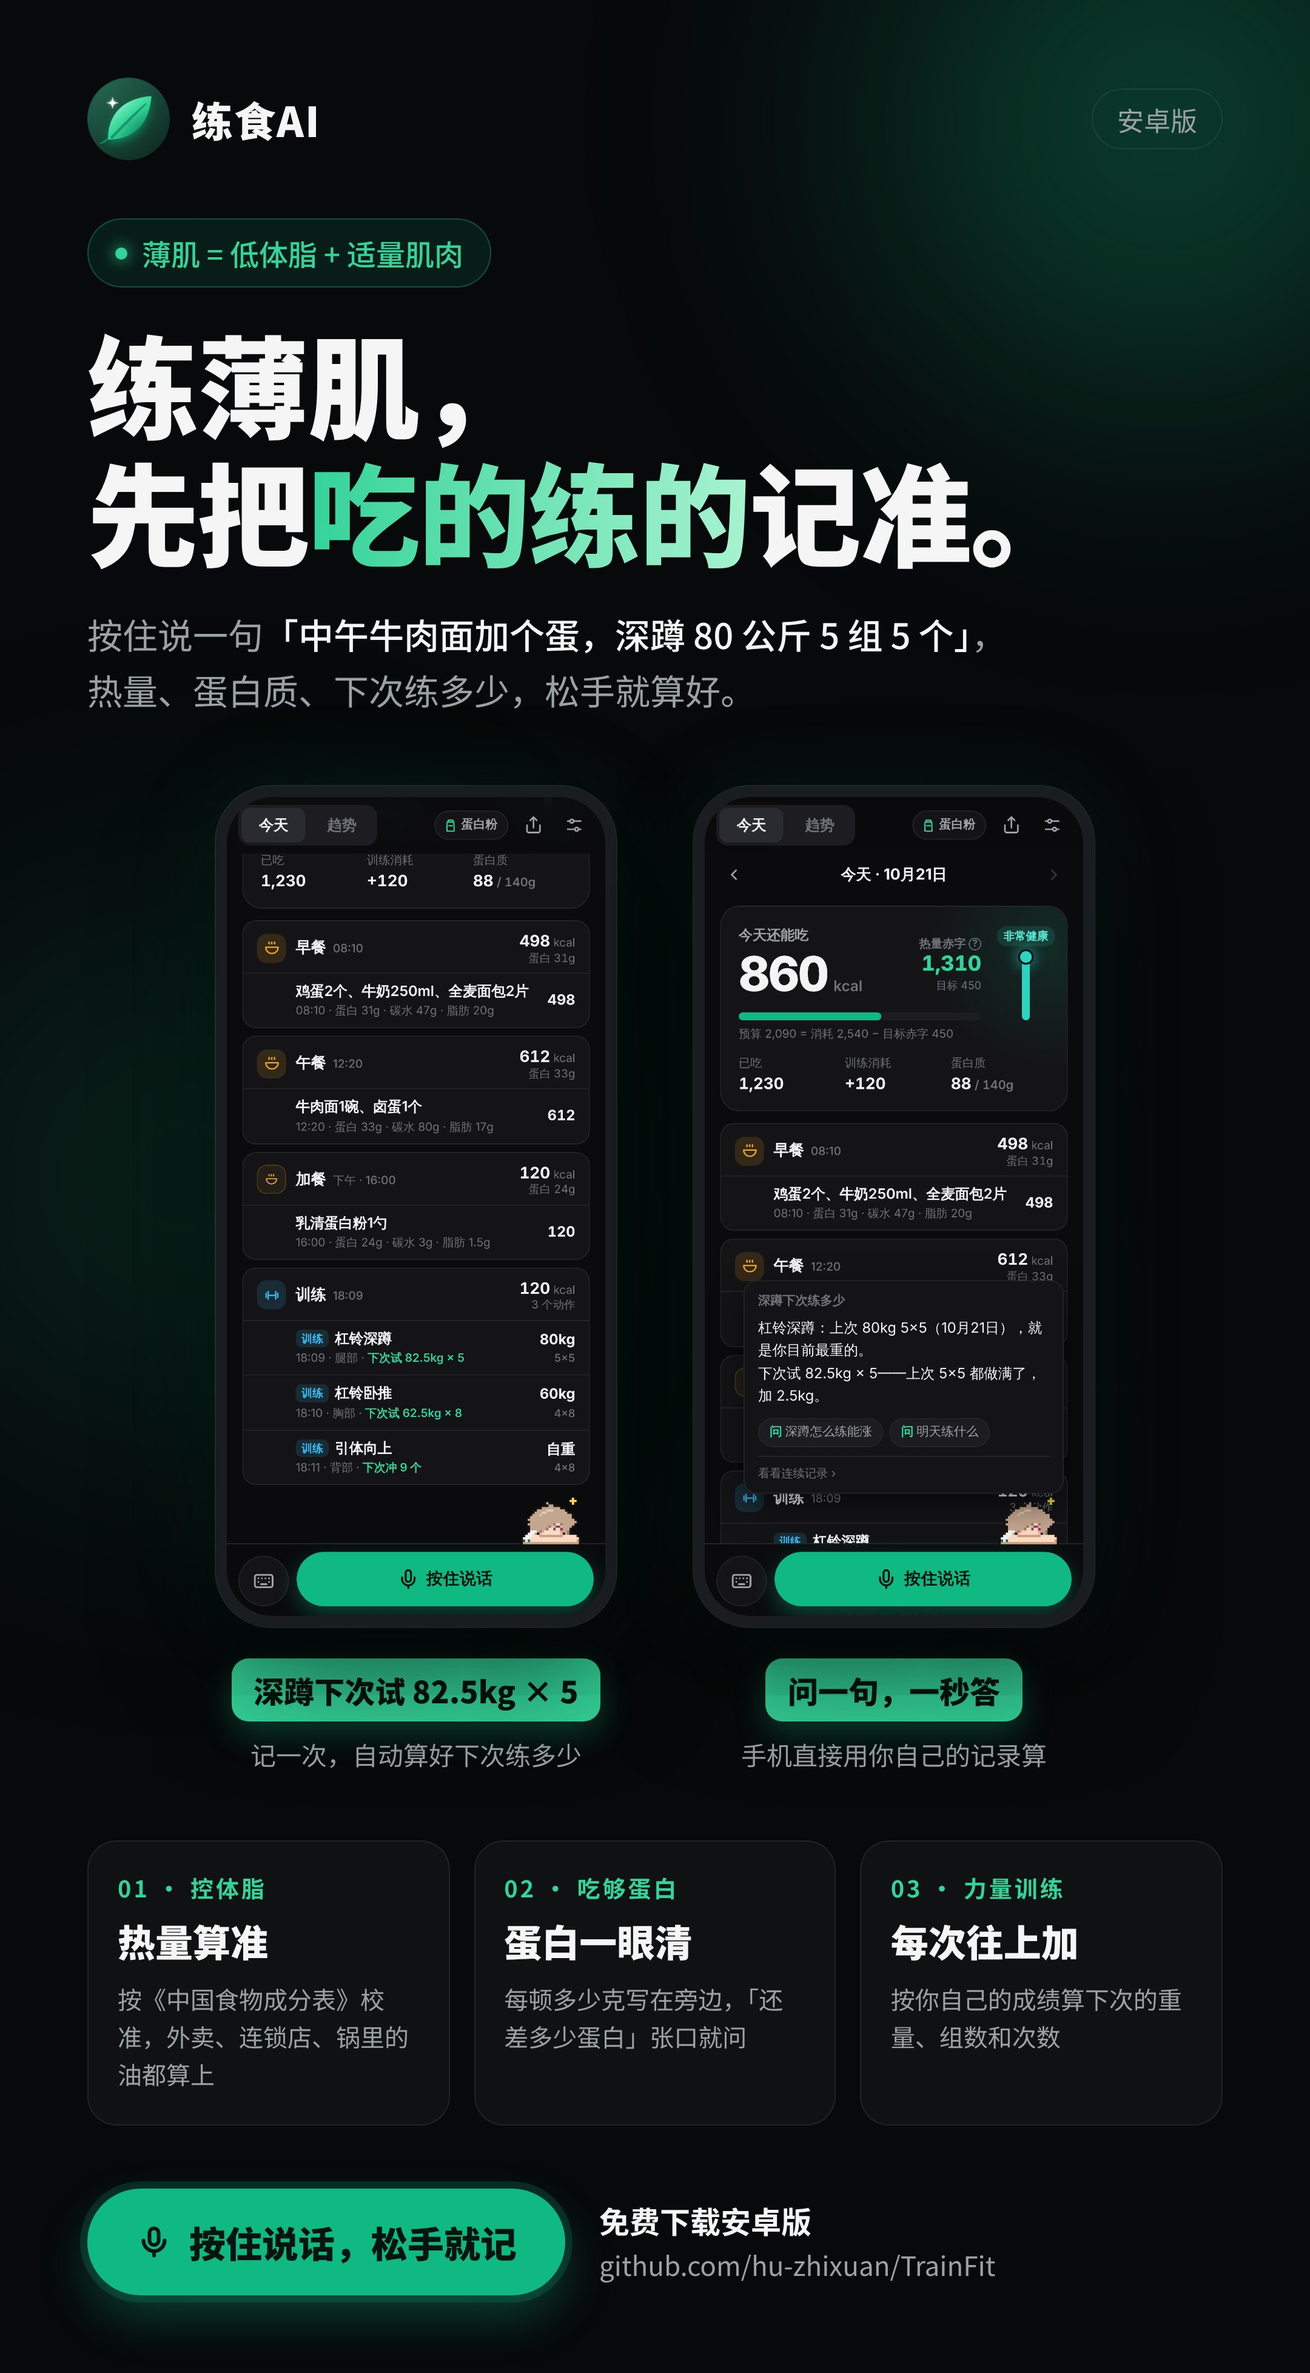
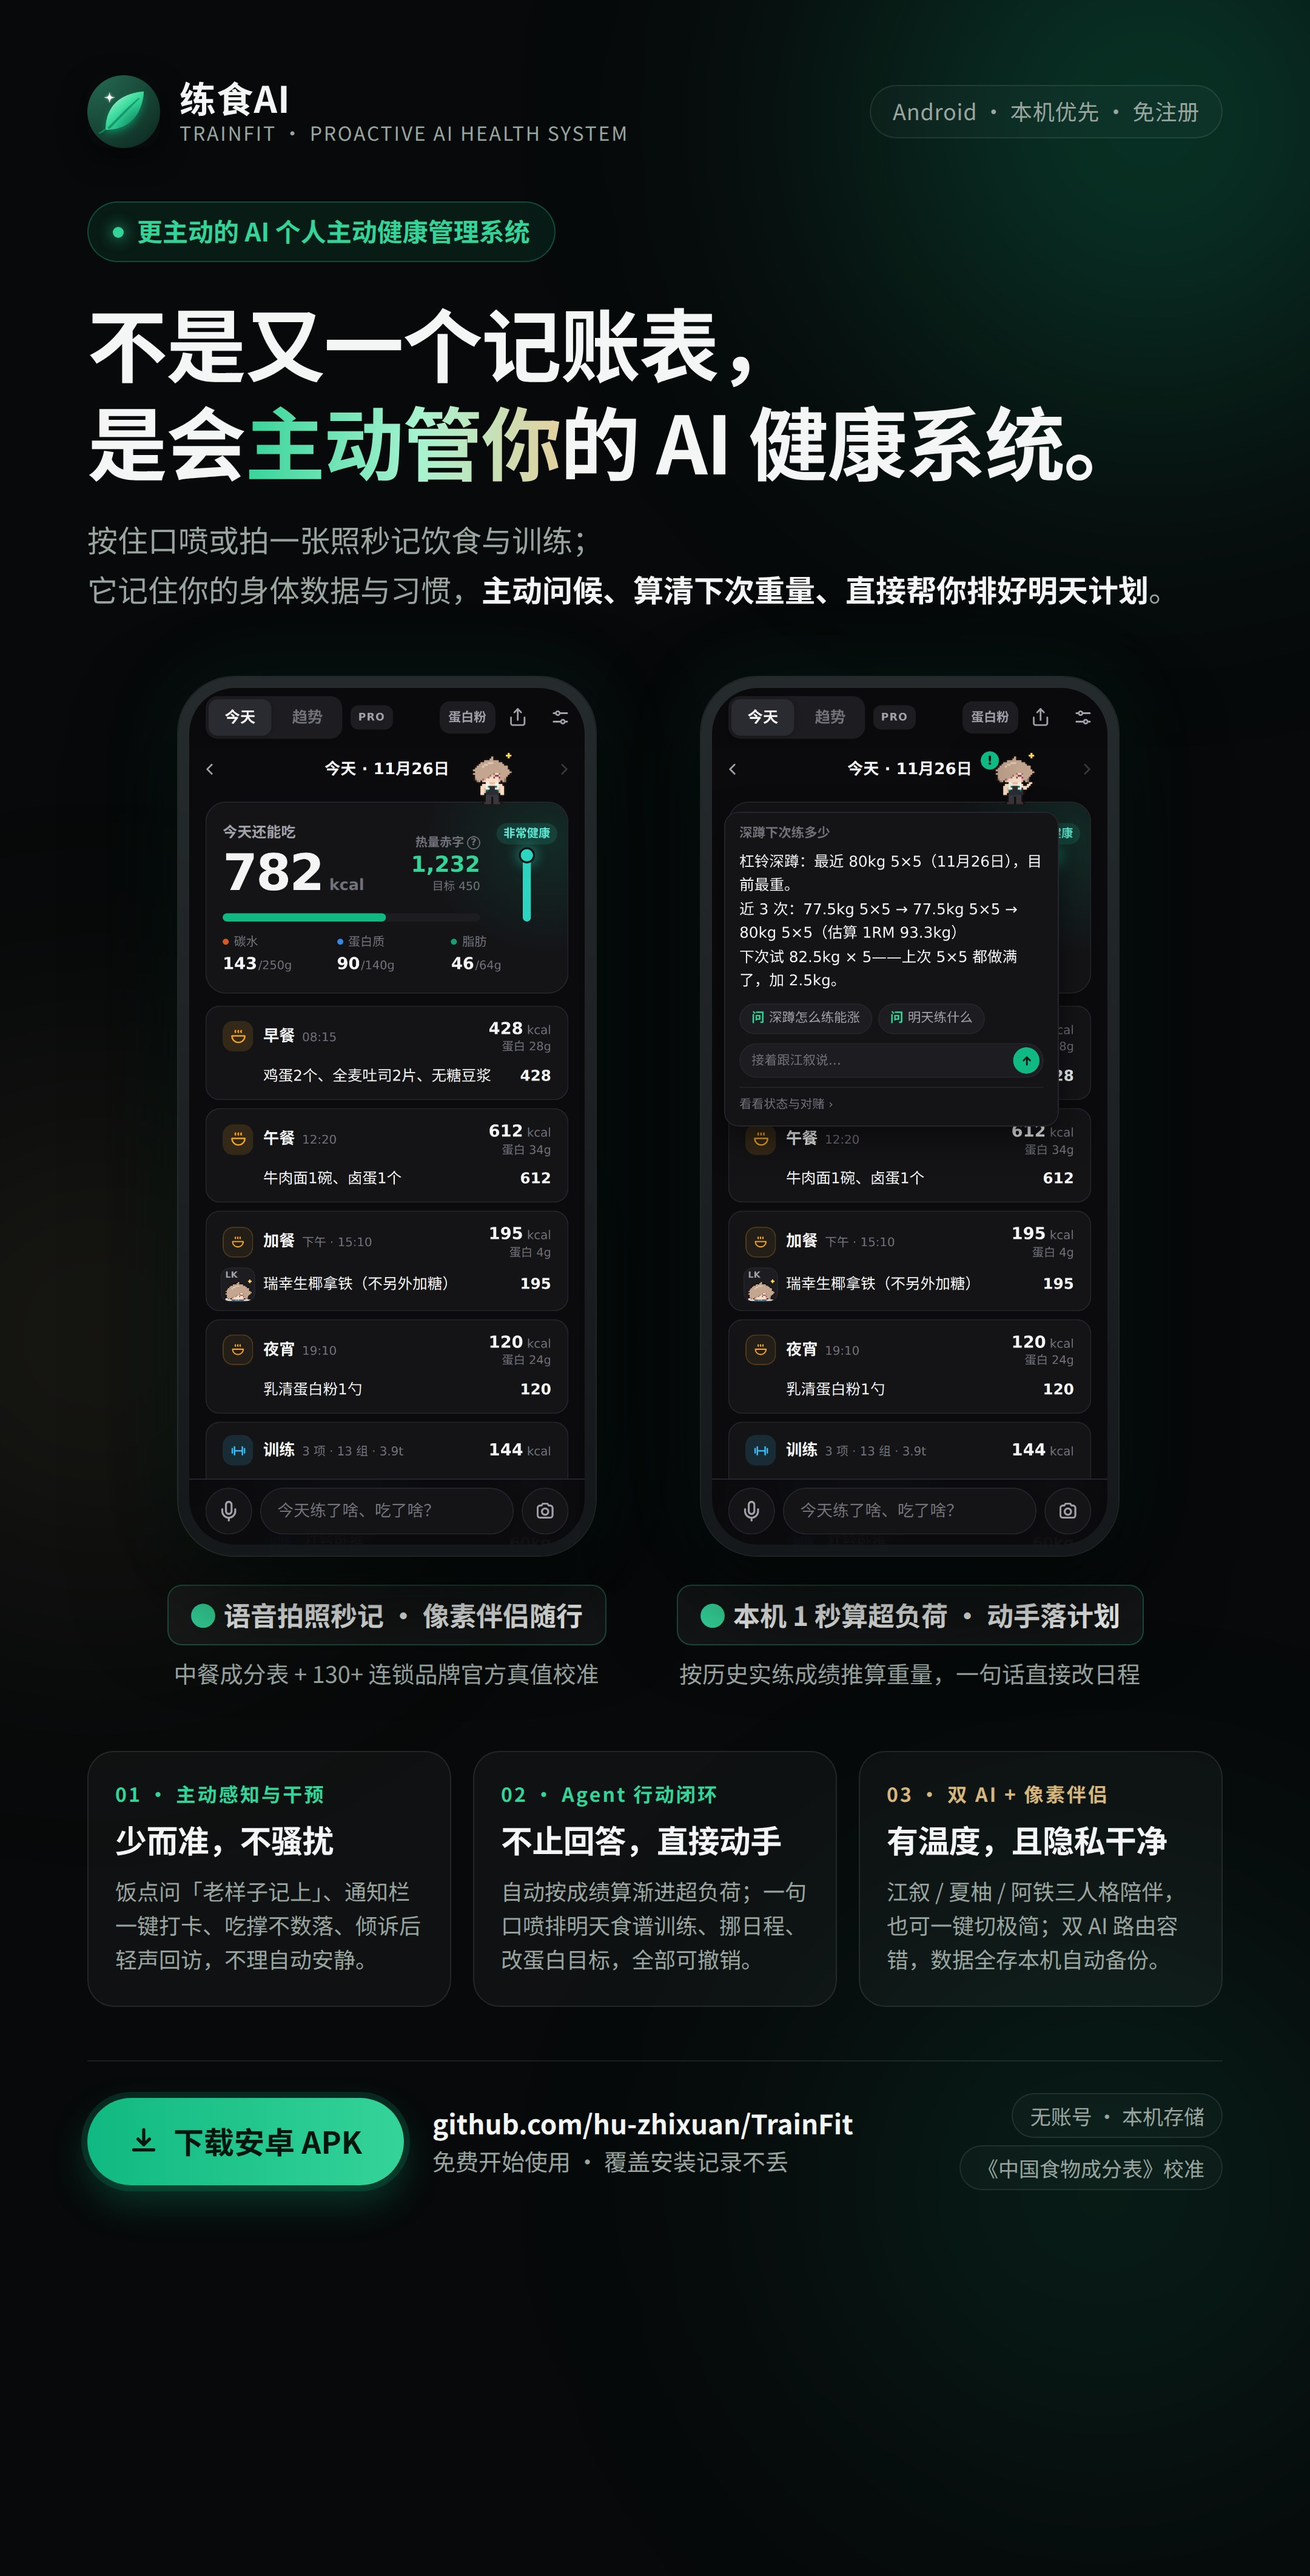
更新介绍页

diff --git a/README.md b/README.md
@@ -1,49 +1,139 @@
-# 练食AI
+<div align="center">
 
-<p align="center"><img src="promo.jpg" alt="练食AI：练薄肌，先把吃的练的记准" width="540"></p>
+# 练食AI · TrainFit
 
-<p align="center">
-  <b>记饮食、记训练，不用填表。按住说一句就记好了。</b><br>
-  「中午一碗牛肉面加个蛋」「卧推 60 公斤 4 组 8 个」「体重 62.5」——松手就记上，热量、蛋白质自动算好。
+**更主动的 AI 个人主动健康管理系统**  
+*不是又一个要你搜表填克数的热量记账本，是一套会主动找你、会动手排计划的个人健康 Agent。*
+
+<p>
+  <a href="https://github.com/hu-zhixuan/TrainFit/releases/latest">
+    <img src="https://img.shields.io/github/v/release/hu-zhixuan/TrainFit?label=Latest%20APK&color=10b981&style=flat-square" alt="Latest Release">
+  </a>
+  <img src="https://img.shields.io/badge/Platform-Android-181c1e?style=flat-square&logo=android&logoColor=34d399" alt="Android">
+  <img src="https://img.shields.io/badge/Architecture-Proactive%20AI%20Agent-181c1e?style=flat-square&labelColor=0f1416&color=10b981" alt="Proactive AI Agent">
+  <img src="https://img.shields.io/badge/Privacy-Local--First%20%C2%B7%20%E5%85%8D%E6%B3%A8%E5%86%8C-181c1e?style=flat-square&color=d6b67c" alt="Local First">
 </p>
 
-### 📥 [下载最新安卓安装包](https://github.com/hu-zhixuan/TrainFit/releases/latest)
+<p>
+  <a href="https://github.com/hu-zhixuan/TrainFit/releases/latest"><b>📥 下载最新安卓 APK</b></a>
+  &nbsp;·&nbsp;
+  <a href="#-实机界面一览"><b>📱 实机界面</b></a>
+  &nbsp;·&nbsp;
+  <a href="#-为什么做主动健康管理系统"><b>🧠 系统架构</b></a>
+  &nbsp;·&nbsp;
+  <a href="https://github.com/hu-zhixuan/TrainFit/issues/new/choose"><b>💬 提建议 / 报 Bug</b></a>
+</p>
 
-打开后点 **Assets** 里的 `TrainFit-v版本号.apk` 下载安装。以后有新版本，直接覆盖安装，记录都在。
+<br>
 
----
+<img src="promo.jpg" alt="练食AI：更主动的 AI 个人主动健康管理系统" width="620">
 
-## 为什么做它
-
-记热量的 App 大多要一样样搜、一样样选克数，记三天就不想记了；记训练的又是另一个 App，两边的数对不上。
-练食AI 只有一个按钮：**吃了什么、练了什么、想问什么，都按住说。**
-
-## 能做什么
-
-- **口喷就行**：一口气说完早中晚吃的、练的、体重，自动分成几条记好。说错了再说一句「改成两碗」「删掉奶茶」。
-- **热量算得准**：米饭、鸡蛋、牛肉这类按《中国食物成分表》算；番茄炒蛋、麻辣香锅、饺子这些常见中餐按菜谱和实测数据算，连锅里的油都算上；连锁店按官方一份估。说得含糊（「一碗」「一份」）会问一句多大份，点一下就改好。
-- **训练按你的成绩来**：记过的动作，告诉你下次该加重量还是加次数、加多少；问「明天练什么」，按你最近的成绩排好重量组数，点一下放进明天的计划，练完打勾就记上。自己的训练计划（计划A、计划B）粘过来也能一键存好。
-- **问什么都行**：「还差多少蛋白」「还能吃多少」这种马上算出来；「明天吃什么」「膝盖疼怎么练」「尿酸高能吃什么」也能问，它看着你自己的记录回答。
-- **有个陪你记的小人**：江叙或夏柚趴在按钮上，记完回你一句，饭点问一声，好几天没记也不数落。想要更多可以开剧情模式（每天一段故事，像玩 Galgame），不想要就选极简模式。
-- **蛋白粉怎么挑**：乳清蛋白按「每克蛋白多少钱」排，还能看大家的打分。
-- **趋势一眼看清**：每天吃了多少、蛋白够不够、热量赤字、练了哪儿、体重走势。
-
-## 你的数据
-
-- 记录只存在你的手机上，没有账号、不用注册。
-- 每天自动备份到手机「下载/练食AI/」，卸载重装、换手机都能恢复。
-- 整理记录、回答问题时，你说的那句话会发给 AI 接口处理；语音识别先在手机本机做，联网时也会用云端识别，更准。
-
-## 怎么装
-
-1. 用手机浏览器打开上面的下载链接，下载 `TrainFit-v版本号.apk`。
-2. 点开安装。第一次装会提示「允许安装未知来源应用」，按提示允许就行。
-3. 打开后按引导填身高体重，就能开始说了。
-
-目前只有安卓版。
+</div>
 
 ---
 
-每个版本更新了什么：[Releases](https://github.com/hu-zhixuan/TrainFit/releases)
+## 📥 立即下载（仅 Android）
 
-© 2026 练食AI，保留所有权利。
+- **GitHub Releases（推荐，始终最新）**：前往 [**Releases Latest**](https://github.com/hu-zhixuan/TrainFit/releases/latest)，点开下方 **Assets** 下载 `TrainFit-v版本号.apk`。
+- **国内备用直链（蓝奏云）**：[下载 `v16.18` 安卓安装包](https://wwbfi.lanzn.com/isV4O4h9rk7a)（提取码：`3are`）。
+- **覆盖更新**：以后出新版本直接覆盖安装，本地历史记录、习惯记忆与训练计划全部保留。
+
+---
+
+## 🧠 为什么做「主动健康管理系统」
+
+传统健身和热量 App 大多是**被动表单**：每顿饭搜食材、挑克数，训练和饮食拆成两个软件，记三天嫌烦就弃了。  
+**练食AI** 不只是套壳大模型聊天，而是包在大模型外层的一套 **Personal Health Agent Harness（个人主动健康管理层）**——把**极低摩擦记录、营养与训练校准、长期个人记忆、低打扰主动干预与直接行动执行**串成一个闭环。
+
+| 维度 | 传统被动记录 App | 练食AI（主动健康管理系统） |
+|---|---|---|
+| **记录方式** | 逐项搜索食材、手动选克数和训练动作 | **单入口按住口喷语音 / 拍一张照**，一句话同时记早中晚、训练与体重 |
+| **系统主动性** | 你不打开它，它什么都不做；断更就弹焦虑红字 | **少而准的主动找你**：餐点问「老样子记上」、通知一键记、情绪与近况轻声回访，不理自动安静 |
+| **给建议 vs 动手做** | 泛泛而谈的科普文章或模板计划 | **读取你自己的真实记录直接动手**：算下次渐进超负荷重量、一键排明天食谱训练、口喷改日程且可撤销 |
+| **情绪体验** | 冰冷红字报超标，越记越有负罪感 | **吃多不数落、不用红字愧疚感**；三位独立人格像素小人陪伴，也可一键切极简零打扰 |
+| **数据与隐私** | 强制注册账号、全量上传云端 | **Local-First 本机存储**，免注册、无账号，每日自动备份到手机下载目录 |
+
+### 系统工作流（Agent Harness）
+
+```mermaid
+flowchart LR
+    IN["极低摩擦输入<br/>按住口喷 / 拍照识图 / 通知栏一键"] --> ROUTE{"本机优先路由"}
+    ROUTE -->|"查数 / 改日程 / 常用技能"| LOCAL["本机 0 延迟引擎<br/>成分表与品牌真值库 + 超负荷算法"]
+    ROUTE -->|"复杂拆解 / 规划 / 问答"| LLM["双 AI 模型容错路由<br/>免费主力 + 官方大模型兜底"]
+    LOCAL --> MEM["个人健康记忆层<br/>身体数据 · 饮食习惯 · 训练 SSOT · 近况"]
+    LLM --> MEM
+    MEM --> ACT["主动健康干预 & 行动闭环<br/>餐点问候 · 情绪回访 · 一键落计划 · 趋势真话"]
+    ACT --> BUDDY["三人格像素伴侣<br/>江叙 / 夏柚 / 阿铁（可切极简）"]
+```
+
+---
+
+## ✨ 核心能力
+
+### 1. 会主动找你的健康管家（少而准，绝不骚扰）
+- **节点主动接话**：早上提醒称体重，午晚饭点空着会用你常吃的饭问一句「还是老样子？」，通知栏点一下直接记上，不用进 App 翻界面。
+- **记得你发生过的事**：记完大餐或破纪录实时接话（吃多不数落，只说明天怎么温和拉回）；聊到加班、考试、情绪低落时，隔几小时会按角色口吻轻声回访一次。
+- **严格防打扰边界**：每天主动打招呼有硬上限，连着两条没理白天就不再追，几天没来自动保持安静；不想要陪伴也能随时切**极简模式**或隐藏小人。
+
+### 2. 不止回答问题，能直接替你动手（Agentic Loop）
+- **渐进超负荷自动算**：所有同动作别名自动归并，记录同步回写计划库；问「深蹲下次练多少」手机 1 秒直接按你的历史实练给出下次重量与次数（区分正式组与热身/极限单次）。
+- **一句话直接改日程与目标**：问「明天吃什么」「明天练什么」生成按你预算配平的食谱与带重量的训练表，点一下落地进日程；直接口喷「把明天的计划挪到后天」「蛋白目标改成 140g」「今天练计划 A」秒执行且支持撤销。
+- **本机快答 + 健康大脑**：常规查数（「还差多少蛋白」「还能吃多少」「卧推最好多少」）0 延迟本机直出；营养、恢复、伤病与饮食搭配问题自动结合你近两周的真实记录作答。
+
+### 3. 语音 + 拍照极低摩擦输入，中餐和连锁店算得准
+- **双段语音识别 + 拍照秒记**：说话时手机本机 SenseVoice 边说边出字，联网同步走云端实时精校；懒得开口直接拍一顿饭或包装营养表。
+- **多源校准不瞎估**：单一食材按《中国食物成分表（第 6 版）》与 USDA 校准；近 60 道家常中餐按菜谱算清烹调油；内置 **130+ 连锁品牌官方营养库**（麦当劳、肯德基、瑞幸、霸王茶姬等），支持「两个水煮蛋只吃一个蛋黄」「不另外加糖」「不喝汤」精细拆解，点一下气泡就能只调甜度、油量或生熟重。
+
+### 4. 三位独立人格像素小人（也可一键纯净极简）
+- **江叙**（慢热克制、留白感）、**夏柚**（鲜活护短、不发嗲）、**阿铁**（实在烟火气铁哥们）三位完全独立的人格，名字可自定义。
+- 站上热量台陪练、支持今天页与趋势页自由拎起抛接和 2D 实体碰撞（丢多了还会冒「💢」生闷气，长按摸头哄好）。
+- 偏好纯粹极客工具？设置里一键切**极简模式**或关闭小人，界面立刻回归安静的单按钮记录仪。
+
+### 5. 趋势页说真话 + 蛋白粉比价
+- **30 / 60 天总赤字一眼看清**：趋势页按真实累计赤字/盈余与蛋白达标率给结论，吃超了实话实说，不再盲目夸「节奏很稳」；单卡极简排布，无冗余进度条堆砌。
+- **蛋白粉性价比榜**：按「每克纯蛋白到手价」客观排序，支持品牌筛选与口碑查看。
+
+---
+
+## 📱 实机界面一览
+
+<div align="center">
+  <img src="showcase.jpg" alt="练食AI 实机界面：今天页、主动决策、30天趋势页" width="900">
+</div>
+
+---
+
+## 🗺 演进路线图（Roadmap）
+
+练食AI 将持续围绕 **「更主动、更懂你的 AI 个人主动健康管理系统」** 演进：
+
+- [x] **单一入口多模态记录**：本机 + 云端双段语音识别、拍照识图、中餐菜谱与 130+ 品牌官方营养库校准
+- [x] **主动感知与低打扰回访**：通知栏一键记老样子、情绪与近况主动回访、无红字温和反馈
+- [x] **Agent 行动闭环**：训练 SSOT 单一真相、渐进超负荷推算、口喷直接增改挪日程与目标
+- [x] **三人格像素伴侣 & 物理交互**：江叙 / 夏柚 / 阿铁独立人设、热量台站姿、2D 方块碰撞与脾气
+- [ ] **更主动的小人前端与轻互动（私有内测中）**：小人主动跳出约打卡微卡、点开气泡直连轻聊、手绘像素动效与线性马达触感、拍照 1024px 识别精校
+- [ ] **主动健康节律与双模式深化（规划中）**：面向纯数据党与情绪陪伴党的「硬核 / 陪伴」深度分流，以及更聪明的周期训练与疲劳感知
+
+---
+
+## 🔒 数据隐私、费用边界与版权说明
+
+- **数据只属于你**：全部饮食、训练、体重与记忆数据只存在手机本机，**没有账号、不用注册**；每天自动备份 JSON 到手机 `下载/练食AI/` 目录，换机或卸载重装一键恢复。联网整理与问答时仅发送当次文本或图片至 AI 接口，不绑定个人身份。
+- **免费够用，边界透明**：新装自带 3 天完整 Pro 体验；到期后**记录饮食、训练、体重与本机问答永久免费**，仅对重度 AI 与高阶效率项（每日 3 张以上拍照、渐进超负荷一键套用、AI 计划一键落日程、深度思考每日 3 次以上）设 Pro / Max 会员档。
+- **关于开源**：本项目目前为独立开发的闭源商业化探索产品，源码暂不公开，不支持 Fork 或二次分发；本公开仓库用于发布正式安卓安装包、公开演进路线与收集用户反馈。有任何建议或问题，欢迎直接提 [Issue](https://github.com/hu-zhixuan/TrainFit/issues/new/choose)。
+
+---
+
+## ⚙ 安卓安装说明
+
+1. 使用手机浏览器打开 [**Releases Latest**](https://github.com/hu-zhixuan/TrainFit/releases/latest)（或上方蓝奏云备用链），下载 `TrainFit-v版本号.apk`。
+2. 点开 APK 安装；首次安装如系统提示「允许安装未知来源应用」，按提示允许即可。
+3. 打开后按引导一句话或填表建档，即可开始按住说话或拍照使用。
+
+> 目前仅提供 Android 版，暂未上架应用商店、无 iOS / 小程序版。
+
+---
+
+<div align="center">
+  <sub>© 2026 练食AI (TrainFit) · 保留所有权利 · <a href="https://github.com/hu-zhixuan/TrainFit/releases">全部版本更新日志</a></sub>
+</div>
